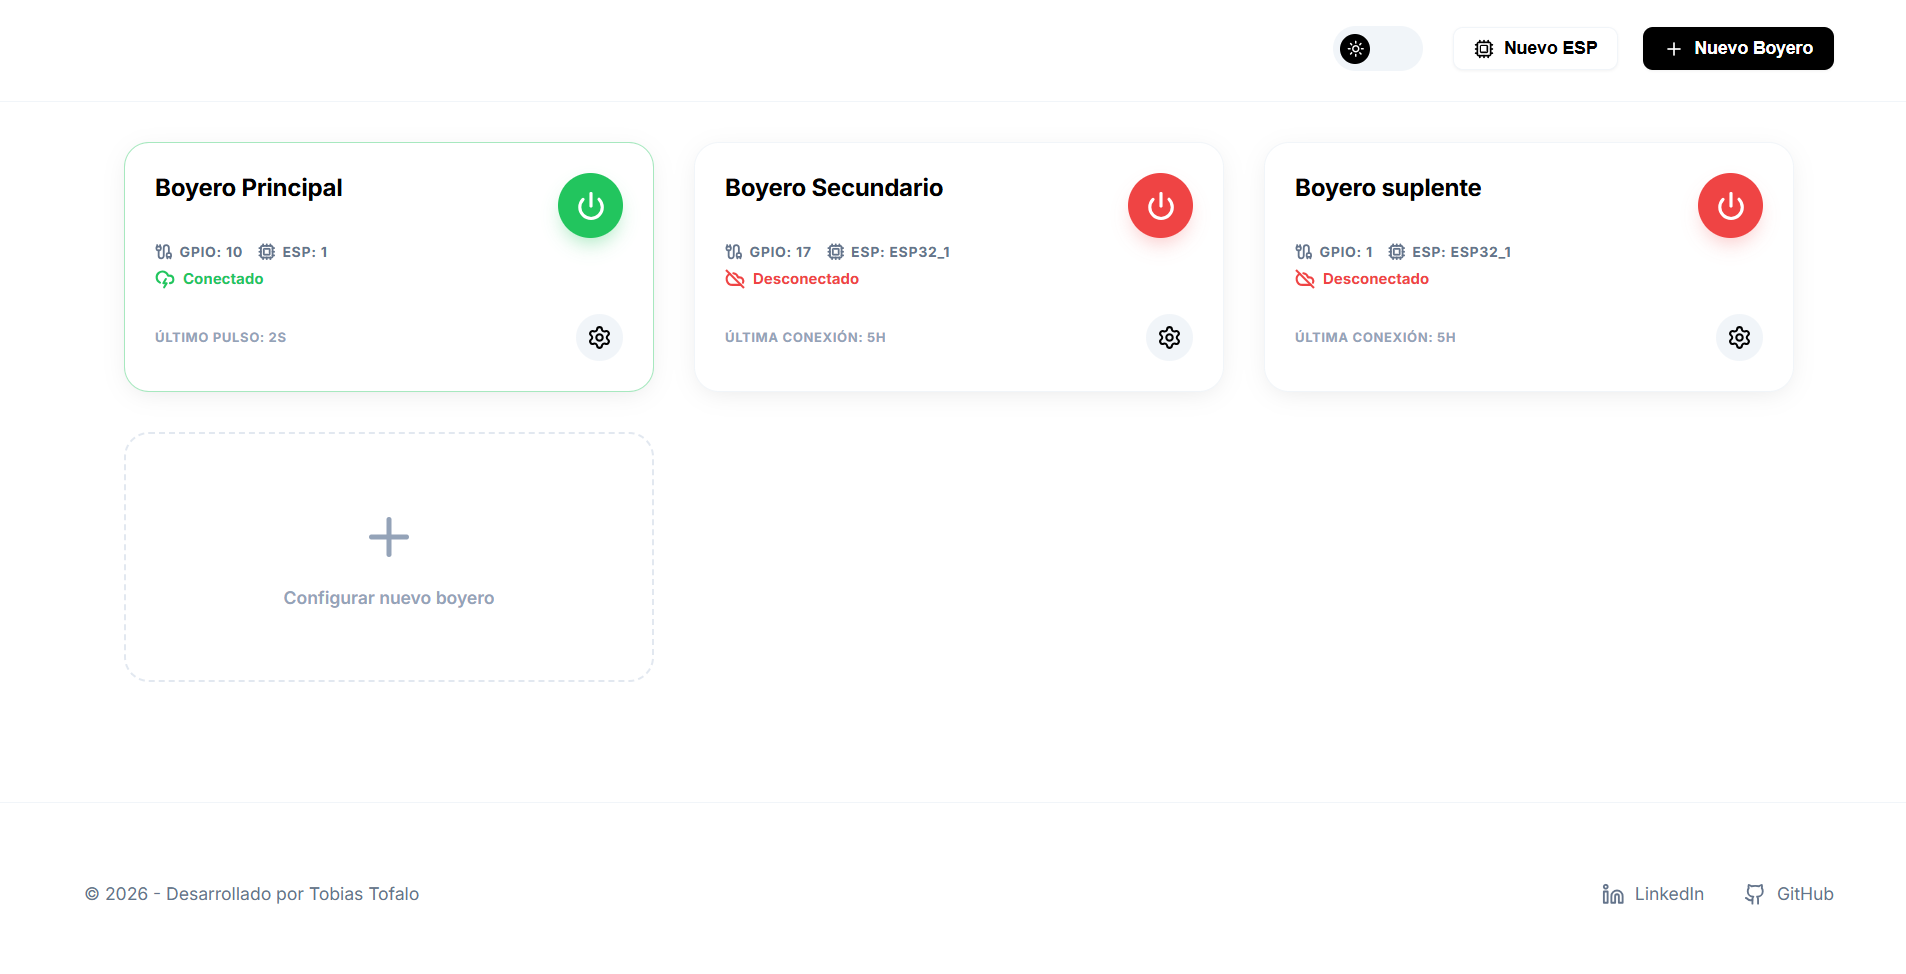
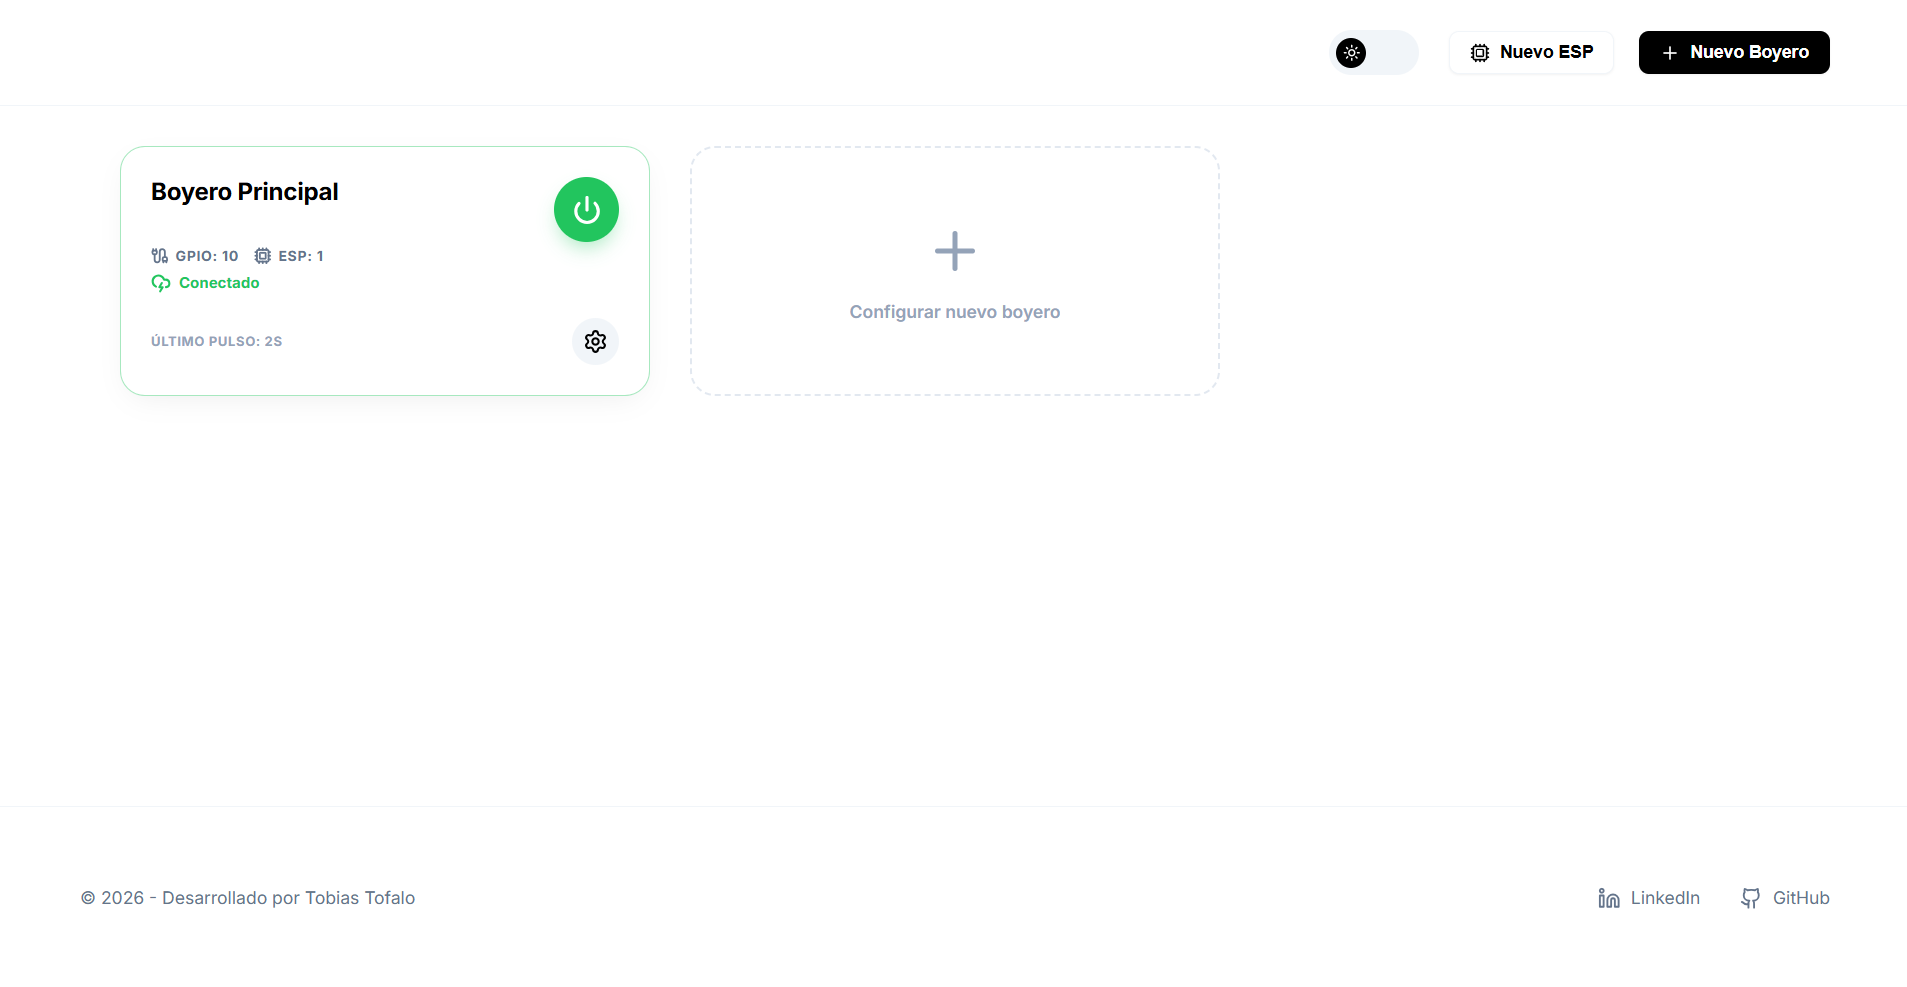
Fix que hago, cita sobre mi

diff --git a/src/components/styles/About.css b/src/components/styles/About.css
@@ -9,27 +9,68 @@
   width: var(--cWidth);
   margin: auto;
 }
+
 .about-me {
   padding: 40px 0px;
   padding-bottom: 0;
   width: 100%;
   max-width: calc(100% - 15px);
 }
+
 .about-me h3 {
-  font-size: 18px;
+  font-size: 16px;
   text-transform: uppercase;
-  letter-spacing: 4px;
+  letter-spacing: 3px;
   font-weight: 400;
   color: var(--accentColor);
-  margin-bottom: 15px;
+  margin-bottom: 20px;
+  display: flex;
+  align-items: center;
+  gap: 10px;
+}
+
+.about-me h3::after {
+  content: '';
+  height: 1px;
+  width: 50px;
+  background: var(--accentColor);
+  opacity: 0.5;
 }
 
 .about-me p {
-  font-size: 20px;
-  font-weight: 600;
-  line-height: 26px;
-  letter-spacing: 0.5px;
-  word-spacing: 2px;
+  font-size: 16px;
+  font-weight: 500;
+  line-height: 24px;
+  letter-spacing: 0.3px;
+  word-spacing: 1px;
+}
+
+.quote-content {
+  position: relative;
+  border-left: 2px solid var(--accentColor);
+  padding: 5px 0 5px 20px;
+  margin-top: 15px;
+  background: rgba(255, 255, 255, 0.01);
+  border-radius: 0 8px 8px 0;
+}
+
+.para.quote {
+  font-style: italic;
+  margin-bottom: 15px;
+  color: #d1d1d1;
+  position: relative;
+}
+
+.para.quote::before {
+  content: '“';
+  font-family: serif;
+  font-size: 50px;
+  position: absolute;
+  top: -25px;
+  left: -15px;
+  color: var(--accentColor);
+  opacity: 0.15;
+  pointer-events: none;
 }
 
 .about-me .split-word {
@@ -45,36 +86,44 @@
   .about-section {
     justify-content: center;
   }
+
   .about-me {
     width: 500px;
   }
+
   .about-me h3 {
     font-size: 22px;
     letter-spacing: 6px;
   }
+
   .about-me p {
-    font-size: 28px;
-    line-height: 32px;
+    font-size: 20px;
+    line-height: 26px;
   }
 }
+
 @media only screen and (min-width: 768px) {
   .about-me {
     width: 500px;
     max-width: calc(100% - 70px);
     transform: translateY(0%);
   }
+
   .about-me h3 {
     font-size: 25px;
     letter-spacing: 7px;
   }
+
   .about-me p {
-    font-size: 33px;
-    line-height: 36px;
+    font-size: 24px;
+    line-height: 30px;
   }
+
   .about-section {
     opacity: 1;
   }
 }
+
 @media only screen and (min-width: 1025px) {
   .about-section {
     width: var(--cWidth);
@@ -84,15 +133,39 @@
     padding: 0px;
     opacity: 1;
   }
+
   .about-me {
     padding: 0px;
     width: 50%;
   }
+
   .about-me p {
-    font-size: 1.9vw;
-    line-height: 2.3vw;
+    font-size: 1.3vw;
+    line-height: 1.7vw;
   }
 }
+
+@media only screen and (max-width: 1440px) {
+  .about-me {
+    width: 60%;
+  }
+
+  .about-me p {
+    font-size: 1.6rem;
+    line-height: 1.4;
+  }
+
+  .quote-content {
+    padding-left: 15px;
+    margin-top: 10px;
+  }
+
+  .para.quote::before {
+    font-size: 40px;
+    top: -20px;
+  }
+}
+
 @media only screen and (min-width: 1950px) {
   .about-me p {
     font-size: 2.5rem;

diff --git a/src/components/styles/SocialIcons.css b/src/components/styles/SocialIcons.css
@@ -7,30 +7,37 @@
   left: 50%;
   transform: translateX(-50%);
 }
+
 .social-icons {
   position: absolute;
-  left: -20px;
+  left: -20px !important;
+  right: auto !important;
   bottom: 20px;
   display: none;
   flex-direction: column;
-  gap: 8px;
+  gap: 15px;
   z-index: 999;
   padding: 10px;
+  align-items: flex-start;
 }
+
 .social-icons:hover {
   transition: 0.3s;
   color: var(--backgroundColor);
 }
+
 .social-icons a:hover {
   color: var(--backgroundColor);
   /* transform: scale(1.2); */
 }
+
 .social-icons span {
   width: 50px;
   height: 50px;
   position: relative;
   display: flex;
 }
+
 .social-icons a {
   --siLeft: 50%;
   --siTop: 50%;
@@ -43,6 +50,7 @@
   will-change: left, top;
   transition: transform 0.3s ease-out;
 }
+
 .resume-button {
   position: absolute;
   z-index: 99;
@@ -62,9 +70,11 @@
   transform-origin: left bottom;
   transform: translateX(100%) rotateZ(-90deg);
 }
+
 .resume-button:hover {
   color: #fff;
 }
+
 div.resume-button span {
   color: #fff;
   font-size: 17px;
@@ -72,6 +82,7 @@ div.resume-button span {
   display: flex;
   align-items: center;
 }
+
 .check-line {
   position: fixed;
   top: 655px;
@@ -81,21 +92,41 @@ div.resume-button span {
   width: 100%;
   z-index: 99999;
 }
+
 @media only screen and (min-width: 900px) {
   .social-icons {
     display: flex;
-    gap: 20px;
+    flex-direction: column;
+    gap: 15px;
   }
+
   .social-icons a {
     font-size: 28px;
   }
 }
+
+@media only screen and (max-width: 1440px) {
+  .social-icons {
+    gap: 10px;
+  }
+
+  .social-icons a {
+    font-size: 22px;
+  }
+
+  .social-icons span {
+    width: 40px;
+    height: 40px;
+  }
+}
+
 @media only screen and (min-width: 768px) {
   .resume-button {
     transform: none;
     font-size: 20px;
     line-height: 20px;
   }
+
   div.resume-button span {
     font-size: 23px;
     margin-top: -1.5px;

diff --git a/src/config.ts b/src/config.ts
@@ -1,6 +1,7 @@
 import cabanaImg from "./assets/cabaña.png";
 import examenImg from "./assets/examen.png";
 import boyerosImg from "./assets/boyeros.png";
+import desarrolladoraImg from "./assets/desarrolladora.png";
 
 export const config = {
     developer: {
@@ -77,6 +78,15 @@ export const config = {
         },
         {
             id: 3,
+            title: "Desarrolladora Inmobiliaria",
+            category: "Web Landing Page",
+            technologies: "React.js, Next.js, Vercel, Radix UI, Tailwind CSS",
+            image: desarrolladoraImg,
+            description: "Landing page premium para desarrolladora inmobiliaria, con enfoque en diseño moderno y experiencia de usuario fluida.",
+            link: ""
+        },
+        {
+            id: 4,
             title: "Sistema Automatización Boyeros",
             category: "IoT / Full Stack",
             technologies: "VPS, CI/CD, FastAPI, React, ChakraUI",

diff --git a/src/components/SocialIcons.tsx b/src/components/SocialIcons.tsx
@@ -59,13 +59,13 @@ const SocialIcons = () => {
     <div className="icons-section">
       <div className="social-icons" data-cursor="icons" id="social">
         <span>
-          <a href={config.contact.github} target="_blank" rel="noopener noreferrer">
-            <FaGithub />
+          <a href={config.contact.linkedin} target="_blank" rel="noopener noreferrer">
+            <FaLinkedinIn />
           </a>
         </span>
         <span>
-          <a href={config.contact.linkedin} target="_blank" rel="noopener noreferrer">
-            <FaLinkedinIn />
+          <a href={config.contact.github} target="_blank" rel="noopener noreferrer">
+            <FaGithub />
           </a>
         </span>
       </div>

diff --git a/src/components/About.tsx b/src/components/About.tsx
@@ -5,13 +5,15 @@ const About = () => {
   return (
     <div className="about-section" id="about">
       <div className="about-me">
-        <h3 className="title">{config.about.title}</h3>
-        <p className="para">
-          {config.about.description}
-        </p>
-        <p className="para">
-          {config.about.description2}
-        </p>
+        <h3 className="title">"{config.about.title}"</h3>
+        <div className="quote-content">
+          <p className="para quote">
+            {config.about.description}
+          </p>
+          <p className="para">
+            {config.about.description2}
+          </p>
+        </div>
       </div>
     </div>
   );

diff --git a/src/components/styles/WhatIDo.css b/src/components/styles/WhatIDo.css
@@ -30,6 +30,15 @@
   left: 110px;
 }
 
+@media only screen and (max-width: 1650px) {
+  .what-box h2 {
+    left: -60px;
+    margin-right: 20%;
+    font-size: 42px;
+    z-index: 20;
+  }
+}
+
 .hat-h2 {
   font-style: italic;
 }

diff --git a/src/index.css b/src/index.css
@@ -184,6 +184,12 @@ body {
   }
 }
 
+@media screen and (min-width: 1024px) and (max-width: 1600px) {
+  body {
+    --cWidth: 90%;
+  }
+}
+
 @media screen and (max-width: 900px) {
   .techstack h2 {
     font-size: 40px;
